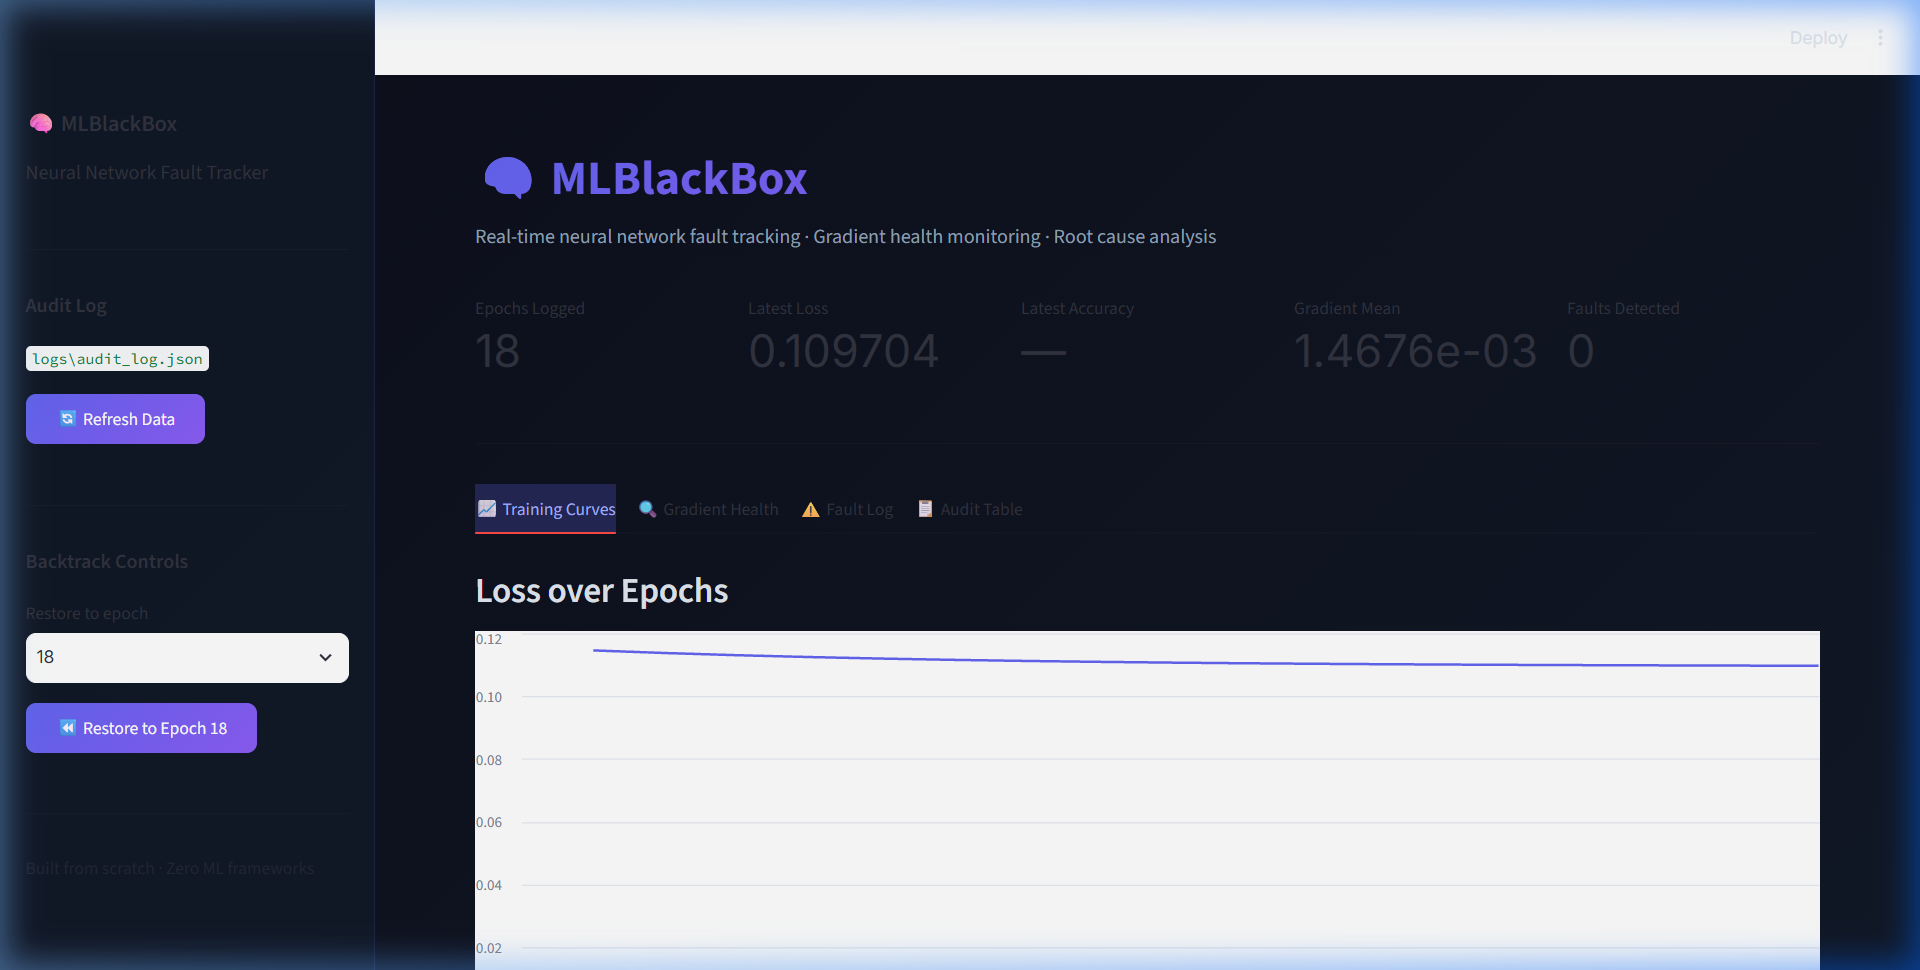
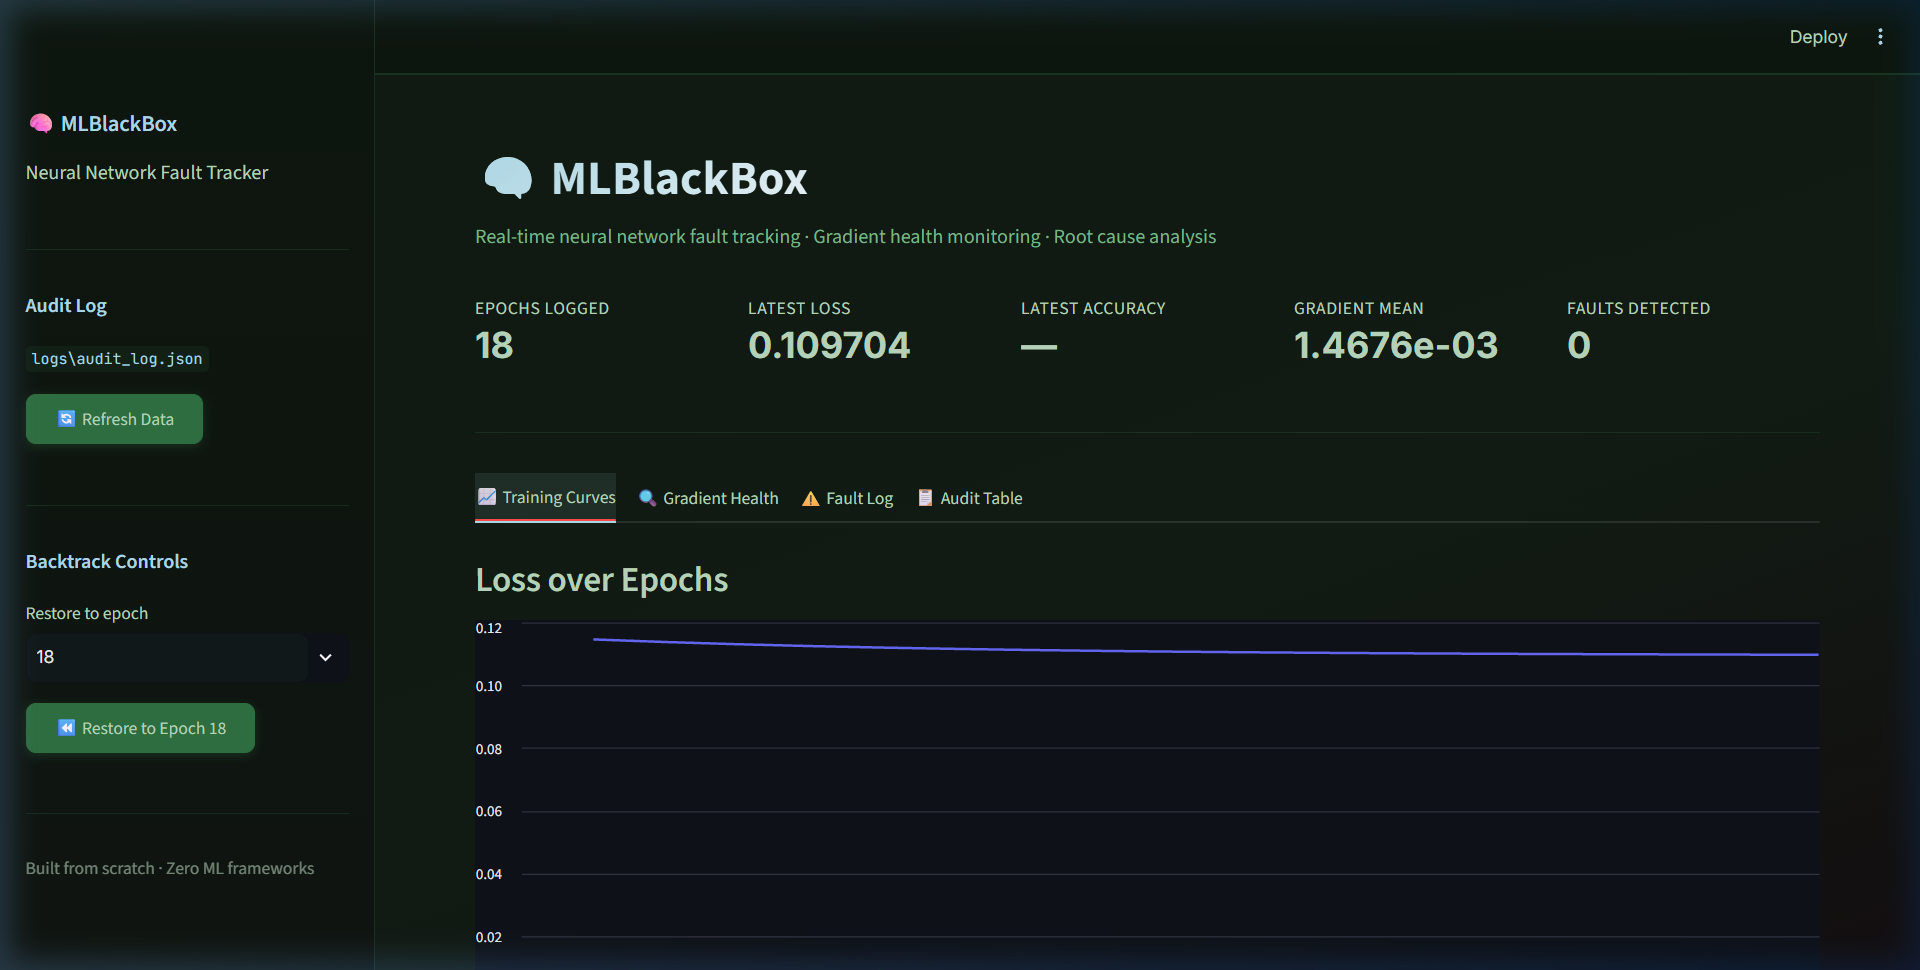
Restyle dashboard with Winter Berry theme and update screenshot

diff --git a/dashboard/app.py b/dashboard/app.py
@@ -31,100 +31,194 @@ st.markdown("""
 <style>
     @import url('https://fonts.googleapis.com/css2?family=Inter:wght@300;400;500;600;700&family=JetBrains+Mono:wght@400;500&display=swap');
 
-    html, body, [class*="css"] {
-        font-family: 'Inter', sans-serif;
+    /* ── Winter Berry Palette ────────────────────────────────────
+       Berry Red:    #8E0A1E
+       Forest Green: #2E6F40
+       Icy Blue:     #ADD8E6
+       White:        #FFFFFF
+    ─────────────────────────────────────────────────────────── */
+
+    html, body, [class*="css"] { font-family: 'Inter', sans-serif; }
+
+    /* ── App background ── */
+    .stApp, .main, [data-testid="stAppViewContainer"] {
+        background: linear-gradient(160deg, #0f1a11 0%, #111c13 60%, #130e10 100%) !important;
+        color: #e8ede9;
     }
 
-    .main { background: #0d0f1a; }
-
-    .stApp {
-        background: linear-gradient(135deg, #0d0f1a 0%, #111827 100%);
-        color: #e2e8f0;
+    /* ── Top toolbar (Deploy bar) ── */
+    [data-testid="stToolbar"],
+    [data-testid="stHeader"] {
+        background: #0d160e !important;
+        border-bottom: 1px solid rgba(46, 111, 64, 0.35) !important;
     }
+    [data-testid="stToolbar"] button,
+    [data-testid="stHeader"] button { color: #ADD8E6 !important; }
 
-    /* Hero header */
+    /* ── Hero header ── */
     .hero-title {
         font-size: 2.4rem;
         font-weight: 700;
-        background: linear-gradient(135deg, #6366f1, #8b5cf6, #ec4899);
+        background: linear-gradient(135deg, #ADD8E6 0%, #ffffff 40%, #8E0A1E 100%);
         -webkit-background-clip: text;
         -webkit-text-fill-color: transparent;
         margin-bottom: 0.2rem;
     }
     .hero-subtitle {
-        color: #94a3b8;
+        color: #7db88a;
         font-size: 1rem;
         margin-bottom: 2rem;
     }
 
-    /* Metric cards */
-    .metric-card {
-        background: rgba(99, 102, 241, 0.08);
-        border: 1px solid rgba(99, 102, 241, 0.2);
-        border-radius: 12px;
-        padding: 1.2rem 1.5rem;
-        margin-bottom: 1rem;
-        transition: border-color 0.2s;
+    /* ── Metric widgets ── */
+    [data-testid="stMetricValue"] {
+        color: #ADD8E6 !important;
+        font-weight: 700 !important;
+        font-size: 1.8rem !important;
     }
-    .metric-card:hover { border-color: rgba(99, 102, 241, 0.5); }
+    [data-testid="stMetricLabel"] {
+        color: #7db88a !important;
+        font-size: 0.82rem !important;
+        text-transform: uppercase;
+        letter-spacing: 0.04em;
+    }
+    [data-testid="stMetricDelta"] { color: #4daa6c !important; }
 
-    /* Fault card */
+    /* ── Tabs: override Streamlit's default blue underline ── */
+    .stTabs [data-baseweb="tab-list"] {
+        background: rgba(46, 111, 64, 0.12);
+        border-radius: 10px 10px 0 0;
+        padding: 4px 4px 0;
+        border-bottom: 2px solid rgba(46, 111, 64, 0.25);
+        gap: 2px;
+    }
+    .stTabs [data-baseweb="tab"] {
+        border-radius: 8px 8px 0 0;
+        color: #7db88a;
+        background: transparent;
+        padding: 0.4rem 1rem;
+        border-bottom: 2px solid transparent;
+        margin-bottom: -2px;
+    }
+    .stTabs [aria-selected="true"] {
+        background: rgba(173, 216, 230, 0.10) !important;
+        color: #ADD8E6 !important;
+        font-weight: 600 !important;
+        border-bottom: 2px solid #ADD8E6 !important;
+    }
+    /* Kill Streamlit's native blue underline animation */
+    .stTabs [data-baseweb="tab-highlight"] { background: transparent !important; display: none !important; }
+    .stTabs [data-baseweb="tab-border"]    { background: rgba(46,111,64,0.25) !important; }
+
+    /* ── Sidebar ── */
+    [data-testid="stSidebar"] {
+        background: linear-gradient(180deg, #0d160e 0%, #0f1410 100%) !important;
+        border-right: 1px solid rgba(46, 111, 64, 0.30);
+    }
+    [data-testid="stSidebar"] p,
+    [data-testid="stSidebar"] span,
+    [data-testid="stSidebar"] label,
+    [data-testid="stSidebar"] div,
+    [data-testid="stSidebar"] .stMarkdown { color: #b8d4bc !important; }
+    [data-testid="stSidebar"] h3,
+    [data-testid="stSidebar"] strong { color: #ADD8E6 !important; }
+    [data-testid="stSidebar"] small,
+    [data-testid="stSidebar"] caption { color: #6a9472 !important; }
+
+    /* ── Buttons ── */
+    /* Default button — Icy Blue outline (Refresh Data) */
+    .stButton > button {
+        background: transparent !important;
+        color: #ADD8E6 !important;
+        border: 1.5px solid #ADD8E6 !important;
+        border-radius: 8px;
+        font-weight: 600;
+        padding: 0.45rem 1.4rem;
+        transition: background 0.2s, box-shadow 0.2s, color 0.2s;
+        box-shadow: none;
+    }
+    .stButton > button:hover {
+        background: rgba(173, 216, 230, 0.12) !important;
+        box-shadow: 0 0 10px rgba(173, 216, 230, 0.20) !important;
+        color: #ffffff !important;
+    }
+
+    /* Backtrack/Restore button — solid Forest Green */
+    [data-testid="stSidebar"] .stButton:last-of-type > button {
+        background: #2E6F40 !important;
+        color: #ffffff !important;
+        border: 1.5px solid #2E6F40 !important;
+        box-shadow: 0 2px 8px rgba(46, 111, 64, 0.35);
+    }
+    [data-testid="stSidebar"] .stButton:last-of-type > button:hover {
+        background: #245c34 !important;
+        border-color: #245c34 !important;
+        box-shadow: 0 4px 12px rgba(46, 111, 64, 0.45) !important;
+    }
+
+    /* ── Fault cards ── */
     .fault-card-critical {
-        background: rgba(239, 68, 68, 0.1);
-        border: 1px solid rgba(239, 68, 68, 0.4);
-        border-radius: 12px;
-        padding: 1.4rem;
+        background: rgba(142, 10, 30, 0.18);
+        border: 1px solid rgba(142, 10, 30, 0.55);
+        border-left: 4px solid #8E0A1E;
+        border-radius: 10px;
+        padding: 1.2rem 1.4rem;
         margin-bottom: 1rem;
     }
     .fault-card-medium {
-        background: rgba(245, 158, 11, 0.1);
-        border: 1px solid rgba(245, 158, 11, 0.4);
-        border-radius: 12px;
-        padding: 1.4rem;
+        background: rgba(173, 216, 230, 0.08);
+        border: 1px solid rgba(173, 216, 230, 0.30);
+        border-left: 4px solid #ADD8E6;
+        border-radius: 10px;
+        padding: 1.2rem 1.4rem;
         margin-bottom: 1rem;
     }
     .fault-card-low {
-        background: rgba(59, 130, 246, 0.1);
-        border: 1px solid rgba(59, 130, 246, 0.4);
-        border-radius: 12px;
-        padding: 1.4rem;
+        background: rgba(46, 111, 64, 0.12);
+        border: 1px solid rgba(46, 111, 64, 0.35);
+        border-left: 4px solid #2E6F40;
+        border-radius: 10px;
+        padding: 1.2rem 1.4rem;
         margin-bottom: 1rem;
     }
 
-    /* Code blocks */
-    .stCodeBlock { font-family: 'JetBrains Mono', monospace; }
+    /* ── Selectbox / dropdowns ── */
+    [data-baseweb="select"] > div {
+        background: rgba(46, 111, 64, 0.10) !important;
+        border-color: rgba(46, 111, 64, 0.40) !important;
+        color: #e8ede9 !important;
+        border-radius: 8px !important;
+    }
+    [data-baseweb="popover"] { background: #1a2e1d !important; }
+    [data-baseweb="menu-item"] { color: #c8deca !important; }
+    [data-baseweb="menu-item"]:hover { background: rgba(173,216,230,0.12) !important; }
 
-    /* Sidebar */
-    [data-testid="stSidebar"] {
-        background: rgba(17, 24, 39, 0.95);
-        border-right: 1px solid rgba(99, 102, 241, 0.15);
-    }
+    /* ── Dividers ── */
+    hr { border-color: rgba(46, 111, 64, 0.25) !important; }
 
-    /* Buttons */
-    .stButton > button {
-        background: linear-gradient(135deg, #6366f1, #8b5cf6);
-        color: white;
-        border: none;
-        border-radius: 8px;
-        font-weight: 600;
-        padding: 0.5rem 1.5rem;
-        transition: opacity 0.2s;
-    }
-    .stButton > button:hover { opacity: 0.85; }
+    /* ── Line chart ── */
+    [data-testid="stArrowVegaLiteChart"] canvas,
+    [data-testid="stVegaLiteChart"] canvas { border-radius: 8px; }
 
-    /* Tabs */
-    .stTabs [data-baseweb="tab-list"] {
-        background: rgba(17, 24, 39, 0.6);
-        border-radius: 10px;
-        padding: 4px;
-    }
-    .stTabs [data-baseweb="tab"] {
-        border-radius: 8px;
-        color: #94a3b8;
-    }
-    .stTabs [aria-selected="true"] {
-        background: rgba(99, 102, 241, 0.25) !important;
-        color: #a5b4fc !important;
+    /* ── Dataframe ── */
+    [data-testid="stDataFrame"] { border-radius: 10px; overflow: hidden; border: 1px solid rgba(46,111,64,0.25); }
+
+    /* ── Code blocks ── */
+    .stCodeBlock, code { font-family: 'JetBrains Mono', monospace !important; }
+    code { background: rgba(46, 111, 64, 0.12) !important; color: #ADD8E6 !important; border-radius: 4px; }
+
+    /* ── General text ── */
+    p, span, label { color: #b8d4bc; }
+    h1, h2, h3, h4 { color: #e8ede9 !important; }
+    strong, b { color: #ADD8E6 !important; }
+    small, caption { color: #6a9472; }
+
+    /* ── Input fields ── */
+    input, textarea {
+        background: rgba(46, 111, 64, 0.08) !important;
+        border-color: rgba(46, 111, 64, 0.30) !important;
+        color: #e8ede9 !important;
+        border-radius: 8px !important;
     }
 </style>
 """, unsafe_allow_html=True)
